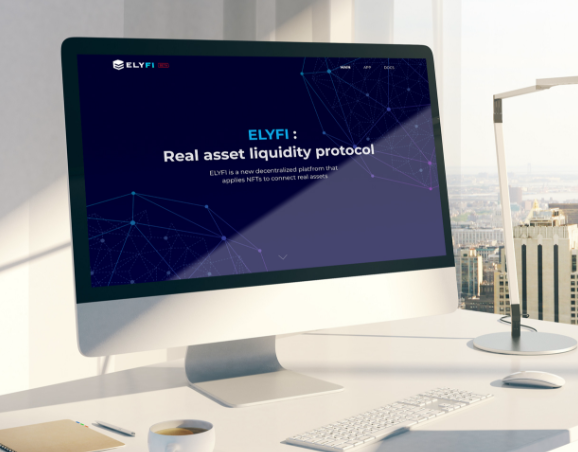
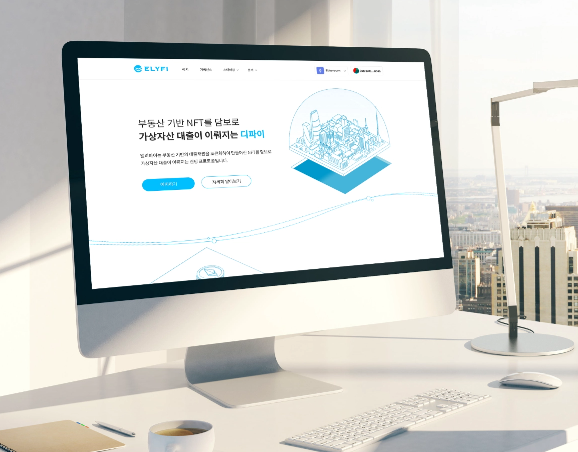
change main

diff --git a/src/modules/mobile/main/Main.tsx b/src/modules/mobile/main/Main.tsx
@@ -1,9 +1,7 @@
-import React, { useState, useEffect } from "react";
+import { useState, useEffect } from "react";
 import ElysiaLogo from "../../../shared/image/Elysia_Logo.png";
 import ElysiaWhiteLogo from "../../../shared/image/Elysia_Logo_White.png";
 import MainBackground from "../../../shared/image/main-background.png";
-import GoogleLogo from "../../../shared/image/google-logo.png";
-import AppleLogo from "../../../shared/image/apple-logo.png";
 import DownArrow from "../../../shared/image/down-arrow.png";
 
 /* Service */
@@ -23,6 +21,8 @@ import Team6 from "../../../shared/image/team/Team8.png";
 import LinkedIn from "../../../shared/image/linkedin.png";
 
 /* Partners Image */
+import Certik from "../../../shared/image/partners/certik.png";
+import HaechiLabs from '../../../shared/image/partners/haechi_labs.png';
 import Iconloop from "../../../shared/image/partners/iconloop.png";
 import Hexlant from "../../../shared/image/partners/hexlant.png";
 import Bishijie from "../../../shared/image/partners/bishijie.png";
@@ -56,9 +56,6 @@ import { Link } from "react-router-dom";
 import { useTranslation } from "react-i18next";
 import ReCAPTCHA from "react-google-recaptcha";
 import axios from "axios";
-
-import PopupImageKor from "../../../shared/image/popup--kor.png";
-import PopupImageEng from "../../../shared/image/popup--eng.png";
 
 const Main = () => {
   const { t, i18n } = useTranslation();
@@ -306,26 +303,9 @@ const Main = () => {
             {t("main.content-title")}
           </h1>
           <p className="main__content-text">{t("main.content-sub-title")}</p>
-          <a
-            className="main__store__button"
-            href="https://play.google.com/store/apps/details?id=land.elysia"
-          >
-            <figure
-              className="main__image__google-play"
-              style={{ backgroundImage: `url(${GoogleLogo})` }}
-            />
-            <span className="main__image__text">Google Play</span>
-          </a>
-          <a
-            className="main__store__button"
-            href="https://apps.apple.com/us/app/elysia/id1536733411"
-          >
-            <figure
-              className="main__image__app-store"
-              style={{ backgroundImage: `url(${AppleLogo})` }}
-            />
-            <span className="main__image__text">App Store</span>
-          </a>
+          <p className="main__content__dao">
+            {t("main.content-dao")}
+          </p>
         </div>
         <div className="main__down-arrow-wrapper">
           <img
@@ -347,7 +327,7 @@ const Main = () => {
           {t("service.sub-title-moblie")}
           <br />
         </h1>
-        <div className="service__container">
+        {/* <div className="service__container">
           <img
             className="service__image scroll-animation scroll-animation--up"
             src={Service00}
@@ -369,7 +349,7 @@ const Main = () => {
               </div>
             </p>
           </div>
-        </div>
+        </div> */}
         <div className="service__container">
           <img
             className="service__image scroll-animation scroll-animation--up"
@@ -445,6 +425,27 @@ const Main = () => {
         </div>
       </section>
       <section className="partners" id="partners">
+        <h1
+          className="partners__text--bold section__text--bold scroll-animation scroll-animation--up"
+          style={{ paddingTop: 70 }}
+        >
+        {t("partners.audit")}
+        </h1>
+        <div style={{
+          display: "flex",
+          justifyContent: "space-evenly"
+        }}>
+        {[Certik, HaechiLabs].map((data, index) => {
+          return (
+            <img
+              src={data}
+              className="partners__image scroll-animation scroll-animation--up"
+              alt="Elysia"
+              data-sa-margin={index * 5}
+            />
+          )
+        })}
+        </div>
         <h1
           className="partners__text--bold section__text--bold scroll-animation scroll-animation--up"
           style={{ paddingTop: 70 }}

diff --git a/src/modules/pc/main/Main.tsx b/src/modules/pc/main/Main.tsx
@@ -32,6 +32,8 @@ import Team6 from "../../../shared/image/team/Team8.png";
 import LinkedIn from "../../../shared/image/linkedin.png";
 
 /* Partners Image */
+import Certik from "../../../shared/image/partners/certik.png";
+import HaechiLabs from '../../../shared/image/partners/haechi_labs.png';
 import Iconloop from "../../../shared/image/partners/iconloop.png";
 import Hexlant from "../../../shared/image/partners/hexlant.png";
 import Bishijie from "../../../shared/image/partners/bishijie.png";
@@ -252,14 +254,6 @@ const Main = () => {
               }}
             />
             <div className="main__gnb__link-wrapper">
-              {/* <p className="main__gnb__link" onClick={() => Scroll("serviceref")}
-                style={{ color: `${scrollTop >= 100 ? "#333333" : "#FFFFFF"}` }}>
-                {t("navigation.service")}
-              </p>
-              <p className="main__gnb__link" onClick={() => Scroll("portfolioref")}
-                style={{ color: `${scrollTop >= 100 ? "#333333" : "#FFFFFF"}` }}>
-                {t("navigation.portfolio")}
-              </p> */}
               <a
                 className="main__gnb__link"
                 href="#service"
@@ -319,26 +313,9 @@ const Main = () => {
             {t("main.content-title")}
           </h2>
           <p className="main__content-text">{t("main.content-sub-title")}</p>
-          <a
-            className="main__store__button"
-            href="https://play.google.com/store/apps/details?id=land.elysia"
-          >
-            <figure
-              className="main__image__google-play"
-              style={{ backgroundImage: `url(${GoogleLogo})` }}
-            />
-            <span className="main__image__text">Google Play</span>
-          </a>
-          <a
-            className="main__store__button"
-            href="https://apps.apple.com/us/app/elysia/id1536733411"
-          >
-            <figure
-              className="main__image__app-store"
-              style={{ backgroundImage: `url(${AppleLogo})` }}
-            />
-            <span className="main__image__text">App Store</span>
-          </a>
+          <p className="main__content__dao">
+            {t("main.content-dao")}
+          </p>
         </div>
         <div className="main__down-arrow-wrapper">
           <img
@@ -366,7 +343,7 @@ const Main = () => {
         >
           {t("service.sub-title")}
         </h1>
-        <div className="service__container">
+        {/* <div className="service__container">
           <img
             className="service__image scroll-animation scroll-animation--right"
             src={Service00}
@@ -391,7 +368,7 @@ const Main = () => {
               </div>
             </p>
           </div>
-        </div>
+        </div> */}
         <div className="service__container">
           <div
             className="service__text-wrapper scroll-animation"
@@ -528,6 +505,27 @@ const Main = () => {
         id="partners"
         ref={Partners}
       >
+        <h1
+          className="partners__text--bold section__text--bold scroll-animation scroll-animation--up"
+          style={{ paddingTop: 70 }}
+        >
+          {t("partners.audit")}
+        </h1>
+        <div style={{
+          display: "flex",
+          justifyContent: "space-evenly"
+        }}>
+        {[Certik, HaechiLabs].map((data, index) => {
+          return (
+            <img
+              src={data}
+              className="partners__picture scroll-animation scroll-animation--up"
+              alt="Elysia"
+              data-sa-margin={index * 5}
+            />
+          )
+        })}
+        </div>
         <h1
           className="partners__text--bold section__text--bold scroll-animation scroll-animation--up"
           style={{ paddingTop: 70 }}

diff --git a/src/modules/mobile/css/mobileStyle.scss b/src/modules/mobile/css/mobileStyle.scss
@@ -362,6 +362,10 @@
       animation: fadeOut 1.7s cubic-bezier(0, 0, 0.1, 1) 0.2s;
       animation-fill-mode: forwards;
     }
+    &__content__dao {
+      color: #Fff;
+      font-size: 15px;
+    }
     &__store__button {
       width: 250px;
       height: 45px;

diff --git a/src/modules/pc/css/style.scss b/src/modules/pc/css/style.scss
@@ -229,6 +229,11 @@ section.contents-container {
       }
     }
   }
+  &__content__dao { 
+    color: #FFF;
+    font-size: 25px;
+    font-style: italic;
+  }
   &__content-container {
     text-align: center;
     margin: 0 auto;
